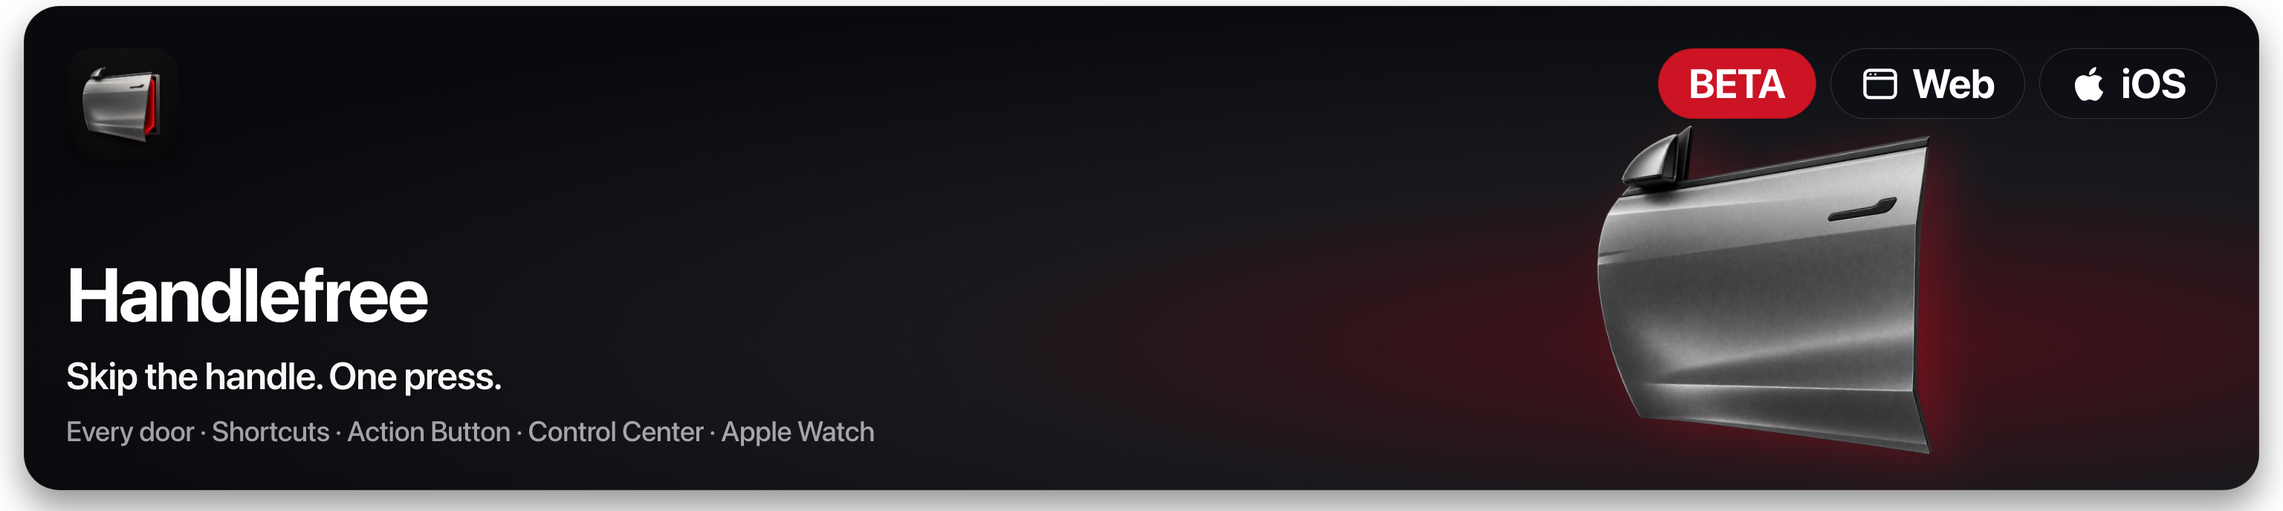
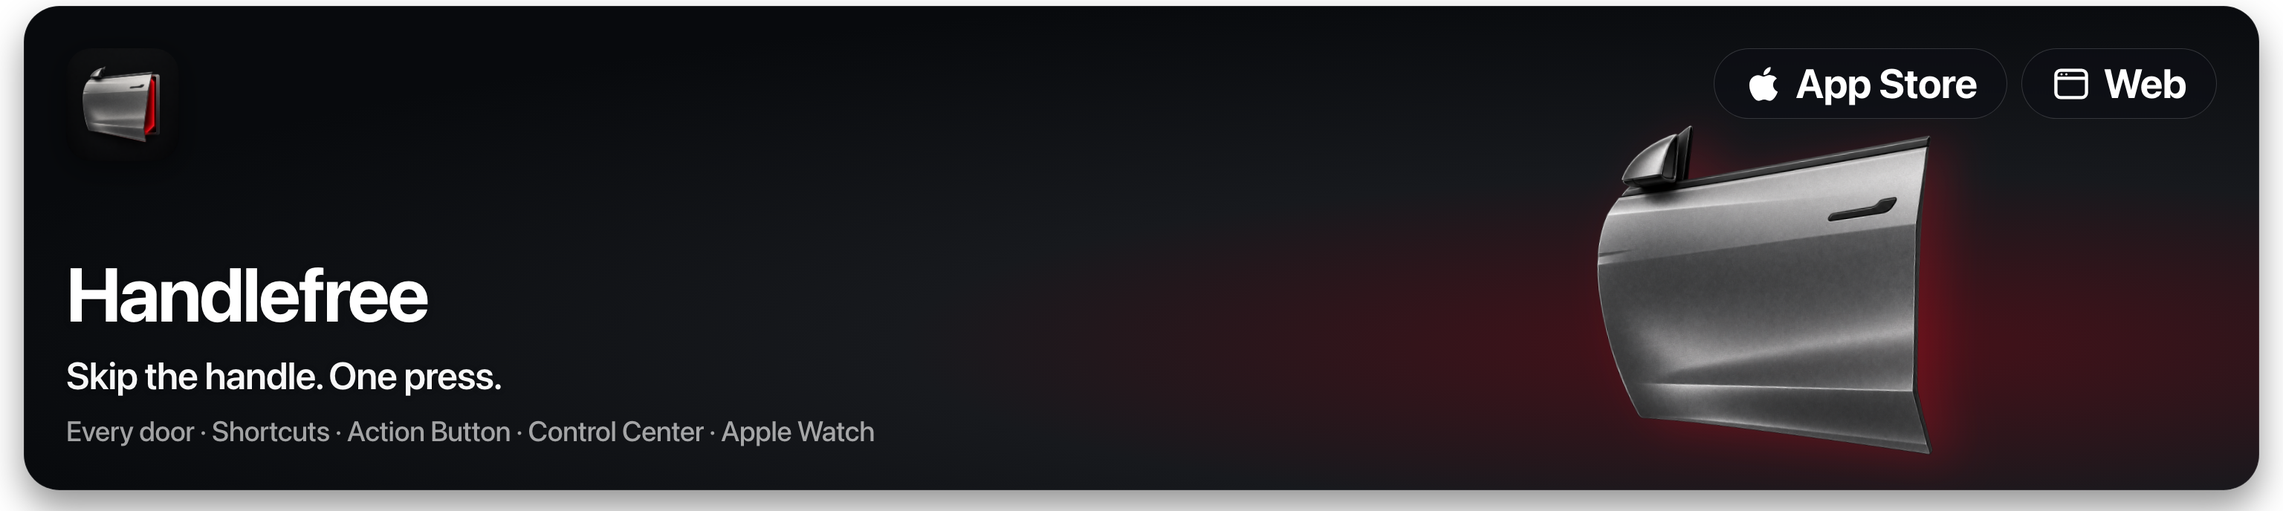
docs: Handlefree is on the App Store — badge, launch price, real-car clip, Model 3 compatibility

Changed region(s): [[0.7188, 0.0916, 0.9688, 0.2442]]

diff --git a/README.de.md b/README.de.md
@@ -1,4 +1,4 @@
-<a href="https://handlefree.app/de/"><img src="assets/handlefree-banner.png" width="100%" alt="Handlefree Beta: Skip the handle. One press. Jede Tür, Kurzbefehle, Aktionstaste, Kontrollzentrum und Apple Watch. Zu handlefree.app."></a>
+<a href="https://handlefree.app/de/"><img src="assets/handlefree-banner.png" width="100%" alt="Handlefree: Skip the handle. One press. Jede Tür, Kurzbefehle, Aktionstaste, Kontrollzentrum und Apple Watch. Zu handlefree.app."></a>
 
 # Handlefree · Kein Türgriff mehr für deinen Tesla
 
@@ -6,9 +6,11 @@
 
 Handlefree (früher Teslatch) ist eine native iPhone-App, die die Tesla-Tür deiner Wahl über lokales Bluetooth öffnet. Entriegle die Fahrertür oder eine Beifahrertür, öffne Frunk und Kofferraum und öffne oder schließe die Ladeklappe: in der App, per Apple Kurzbefehl, mit der Aktionstaste des iPhone, über eine Steuerung im Kontrollzentrum oder mit deiner Apple Watch.
 
-**[handlefree.app/de →](https://handlefree.app/de/)** · **[Zur TestFlight-Beta](https://testflight.apple.com/join/xGT4ZtxE)** · [Film ansehen](https://www.onekapisch.com/handlefree/#film) · [Preise](https://handlefree.app/de/pricing/) · [Anleitungen](https://handlefree.app/de/guides/) · [Hilfe](https://handlefree.app/de/support/)
+<a href="https://apps.apple.com/app/handlefree-skip-the-handle/id6813757204"><img src="assets/appstore-badge-de.svg" height="48" alt="Handlefree im App Store laden"></a>
 
-> **Stand Oktober 2026:** Handlefree 1.0 ist im App Store eingereicht und wird von Apple geprüft. Bis zur Veröffentlichung kannst du die [öffentliche TestFlight-Beta](https://testflight.apple.com/join/xGT4ZtxE) ausprobieren; die Plätze sind begrenzt, und die Beta-Version kann älter sein als die App-Store-Version.
+**[handlefree.app/de →](https://handlefree.app/de/)** · [Am echten Auto ansehen](https://handlefree.app/de/#real) · [Preise](https://handlefree.app/de/pricing/) · [Anleitungen](https://handlefree.app/de/guides/) · [Hilfe](https://handlefree.app/de/support/)
+
+> **Jetzt im App Store.** Handlefree 1.0 ist seit dem 7. Oktober 2026 erhältlich. Der Download ist kostenlos, die Fahrertür bleibt dauerhaft kostenlos.
 >
 > Dies ist das offizielle **Produkt- und Feedback-Repository**, nicht der Quellcode der App. Die Fahrzeugsteuerung läuft in der nativen App, nicht im Browser.
 
@@ -17,6 +19,12 @@ Handlefree (früher Teslatch) ist eine native iPhone-App, die die Tesla-Tür dei
 <table>
 <tr><td width="33%"><h3>Meine Tür</h3><p>Eine klare Steuerung für die Fahrertür, mit Siri, Kurzbefehlen, Aktionstaste und Kontrollzentrum, damit du den Zugang wählst, der zu dir passt.</p></td><td width="33%"><h3>Jemanden einsteigen lassen</h3><p>Wähle eine Beifahrertür auf einer Fahrzeugansicht oder lege deine meistgenutzten Steuerungen als Favoriten ab. Jede Tür ist eine eigene, benannte Aktion.</p></td><td width="33%"><h3>Einladen</h3><p>Frunk und Kofferraum erreichst du in derselben Oberfläche. Öffnen und Schließen des elektrischen Kofferraums sind getrennte Aktionen.</p></td></tr>
 </table>
+
+### Am echten Auto
+
+<a href="https://handlefree.app/de/#real"><img src="assets/real-car-de.jpg" width="420" alt="Eine echte Aufnahme: Die Aktionstaste des iPhone wird gedrückt und die Fahrertür des Teslas des Entwicklers entriegelt. Eine Einblendung zeigt Fahrertür, entriegelt."></a>
+
+*Ein Druck auf die Aktionstaste des iPhone, in einem Durchgang am Auto des Entwicklers gefilmt und in Originalgeschwindigkeit gezeigt. [Clip auf handlefree.app ansehen](https://handlefree.app/de/#real). Fremde Kennzeichen und persönliche Angaben sind unkenntlich gemacht.*
 
 ### Die App im Detail
 
@@ -47,7 +55,7 @@ Handlefree (früher Teslatch) ist eine native iPhone-App, die die Tesla-Tür dei
 | Kostenlos | Handlefree Pro |
 | --- | --- |
 | Fahrertür entriegeln, verriegeln und entriegeln, in der App und per Siri, Kurzbefehl, Aktionstaste und Kontrollzentrum. Urlaubsmodus und alle Sicherheitseinstellungen. | Beifahrer- und hintere Türen, Frunk, Kofferraum, Ladeklappe und Apple Watch. |
-| Dauerhaft kostenlos. | **9,99 € einmalig** (im App Store in deiner Landeswährung). Kein Abo. Über die Familienfreigabe teilbar. |
+| Dauerhaft kostenlos. | **9,99 € einmalig, Einführungspreis bis 31. Oktober 2026**, danach 19,99 € (im App Store in deiner Landeswährung). Kein Abo. Über die Familienfreigabe teilbar. |
 
 Alle Pro-Funktionen kannst du **7 Tage** kostenlos testen, ab dem Koppeln deines Autos. Danach funktionieren die kostenlosen Funktionen weiter. Kauf wiederherstellen und Code einlösen findest du in der App. Die Zahlung wickelt Apple ab; Handlefree sieht deine Karte nie. Details: [handlefree.app/de/pricing](https://handlefree.app/de/pricing/).
 
@@ -59,7 +67,7 @@ Alle Pro-Funktionen kannst du **7 Tage** kostenlos testen, ab dem Koppeln deines
 - **Schlüssel bleiben auf dem iPhone.** Geschützt im gerätegebundenen Schlüsselbund; die Watch leitet Anfragen weiter und bekommt den Fahrzeugschlüssel nicht.
 - **Diagnose nur auf Wunsch.** Kein automatischer Upload. Du prüfst selbst, was du teilst.
 
-Apple verarbeitet Käufe im App Store und erhebt bei TestFlight Nutzungs- und Absturzdaten, die es mit dem Entwickler teilen kann. Die Website handlefree.app nutzt cookielose, zusammengefasste Vercel Web Analytics; die App selbst hat keine Analyse. GitHub und E-Mail-Anbieter verarbeiten Daten, wenn du ihre Dienste nutzt. Zur [Datenschutzerklärung](https://handlefree.app/de/privacy-policy/).
+Apple verarbeitet Käufe im App Store. Wenn du an einer TestFlight-Beta teilnimmst, erhebt Apple Nutzungs- und Absturzdaten, die es mit dem Entwickler teilen kann. Die Website handlefree.app nutzt cookielose, zusammengefasste Vercel Web Analytics; die App selbst hat keine Analyse. GitHub und E-Mail-Anbieter verarbeiten Daten, wenn du ihre Dienste nutzt. Zur [Datenschutzerklärung](https://handlefree.app/de/privacy-policy/).
 
 ## Kompatibilität und aktueller Stand
 
@@ -67,17 +75,17 @@ Apple verarbeitet Käufe im App Store und erhebt bei TestFlight Nutzungs- und Ab
 | --- | --- |
 | iPhone | iOS 17 oder neuer (Kontrollzentrum und Sperrbildschirm ab iOS 18); Bluetooth an; ein kompatibler Tesla und eine vorhandene Schlüsselkarte zum Koppeln. |
 | Apple Watch | watchOS 10 oder neuer; gekoppeltes iPhone in der Nähe. Diese Version ist kein eigenständiger Watch-Schlüssel. |
-| Fahrzeuge | Physisch getestet bisher am Model Y des Entwicklers (alle vier Türen, Frunk und Kofferraum) und am Model Y Standard eines Beta-Testers. Das ist keine Freigabe für alle Fahrzeuge. |
-| Model 3, S und X | Fahrzeugbilder sind vorhanden. Sie belegen nicht, dass Befehle mit jedem Modell, Baujahr oder jeder Software funktionieren. |
+| Fahrzeuge | Teslas, die Bluetooth-Telefonschlüssel unterstützen. Bestätigt bisher: das Model Y des Entwicklers (alle vier Türen, Frunk und Kofferraum), das Model Y Standard eines Beta-Testers und Model 3, gemeldet von Besitzern. Das ist keine Freigabe für alle Fahrzeuge. |
+| Model S und X | Fahrzeuge ab 2021 unterstützen Telefonschlüssel und sollten sich koppeln lassen, sind von Testern aber noch nicht bestätigt. Model S und X vor 2021 haben keinen Telefonschlüssel und lassen sich nicht koppeln. |
 | Reichweite | Die Bluetooth-Reichweite schwankt. Es gibt keine garantierte Entfernung. |
 | Ohne Fahrzeugstrom | Handlefree braucht ein Auto mit Strom in Reichweite. Im Notfall nutzt du die mechanische Notentriegelung aus deinem Handbuch. |
-| Verfügbarkeit | Alle App-Store-Länder außer Frankreich. |
+| Verfügbarkeit | iPhone, in allen App-Store-Ländern außer Frankreich. |
 
 [Ausführliche Hinweise zur Kompatibilität (Englisch)](docs/COMPATIBILITY.md) · [Anleitungen](https://handlefree.app/de/guides/)
 
 ## Loslegen
 
-1. Installiere Handlefree aus dem App Store, sobald die App veröffentlicht ist, oder tritt über Apples TestFlight-App der [öffentlichen Beta](https://testflight.apple.com/join/xGT4ZtxE) bei.
+1. Installiere Handlefree [aus dem App Store](https://apps.apple.com/app/handlefree-skip-the-handle/id6813757204).
 2. Folge geparkt am Auto der Kopplungsanleitung in Handlefree, mit deiner vorhandenen Tesla-Schlüsselkarte am Kartenleser im Innenraum.
 3. Teste jede Tür in der App und richte dann deinen Kurzbefehl, die Aktionstaste, das Kontrollzentrum oder die Watch ein.
 
@@ -100,7 +108,7 @@ Halte beim Testen den Tür- oder Ladebereich frei. Verlass dich nicht allein auf
 
 **Ist Handlefree kostenlos?**
 
-Fahrertür, Verriegeln und Entriegeln, Urlaubsmodus und alle Sicherheitseinstellungen sind kostenlos. Handlefree Pro ist ein Einmalkauf für die übrigen Türen, Frunk, Kofferraum, Ladeklappe und Apple Watch, mit 7 Tagen kostenlosem Test nach dem Koppeln.
+Fahrertür, Verriegeln und Entriegeln, Urlaubsmodus und alle Sicherheitseinstellungen sind kostenlos. Handlefree Pro ist ein Einmalkauf (9,99 € bis 31. Oktober 2026, danach 19,99 €) für die übrigen Türen, Frunk, Kofferraum, Ladeklappe und Apple Watch, mit 7 Tagen kostenlosem Test nach dem Koppeln.
 
 **Funktioniert es ohne Internet?**
 
@@ -113,6 +121,10 @@ Ja, bei unterstützten Fahrzeugen, mit Handlefree Pro oder während des Tests. J
 **Funktioniert die Watch, wenn das iPhone gesperrt ist?**
 
 Standardmäßig muss das iPhone entsperrt sein. Eine optionale Watch-Zugriffseinstellung erlaubt die Nutzung bei gesperrtem iPhone, nach Bestätigung durch den Besitzer und Einrichtung auf dem iPhone. Das gekoppelte iPhone muss trotzdem in der Nähe sein.
+
+**Welche Teslas funktionieren?**
+
+Teslas, die Bluetooth-Telefonschlüssel unterstützen. Model Y und Model 3 sind bestätigt. Model S und X ab 2021 unterstützen Telefonschlüssel; ältere lassen sich nicht koppeln. Teste jede Tür in der App, bevor du dich auf einen Kurzbefehl verlässt.
 
 **Ersetzt Handlefree die Tesla-App?**
 
@@ -134,10 +146,10 @@ Nutze einen [Fehlerbericht](https://github.com/onekapisch/handlefree/issues/new?
 
 ## Von OneKapisch
 
-Entwickelt von **OneKapisch (Aeon GbR)**, einem unabhängigen Studio in Fürth.
+Entwickelt von **OneKapisch**, einem unabhängigen Softwarestudio aus 🇩🇪
 
 [handlefree.app/de](https://handlefree.app/de/) · [Das Studio](https://www.onekapisch.com/) · [Weitere Apps](https://www.onekapisch.com/products/)
 
 Handlefree ist eine unabhängige App und steht in keiner Verbindung zu Tesla, Inc. und wird nicht von Tesla unterstützt. Tesla und Fahrzeugnamen gehören ihren jeweiligen Inhabern. Apple, iPhone, Apple Watch, Siri und TestFlight sind Marken von Apple Inc. Die Grafiken sind stilisiert, keine offiziellen Tesla-CAD-Daten.
 
-<sub>Produktinformationen geprüft am 4. Oktober 2026. Verfügbarkeit, Preise und Funktionen können sich ändern; aktuelle Angaben findest du auf handlefree.app.</sub>
+<sub>Produktinformationen geprüft am 9. Oktober 2026. Verfügbarkeit, Preise und Funktionen können sich ändern; aktuelle Angaben findest du auf handlefree.app.</sub>

diff --git a/README.md b/README.md
@@ -1,4 +1,4 @@
-<a href="https://handlefree.app/"><img src="assets/handlefree-banner.png" width="100%" alt="Handlefree beta — Skip the handle. One press. Every door, Shortcuts, Action Button, Control Center and Apple Watch. Visit handlefree.app."></a>
+<a href="https://handlefree.app/"><img src="assets/handlefree-banner.png" width="100%" alt="Handlefree — Skip the handle. One press. Every door, Shortcuts, Action Button, Control Center and Apple Watch. Visit handlefree.app."></a>
 
 # Handlefree · Skip the handle for your Tesla
 
@@ -6,9 +6,11 @@
 
 Handlefree (formerly Teslatch) is a native iPhone app that opens the Tesla door you choose over local Bluetooth. Unlatch the driver door or a passenger door, open the frunk and trunk, and open or close the charge-port cover, from the app, an Apple Shortcut, the iPhone Action Button, a Control Center control or your Apple Watch.
 
-**[handlefree.app →](https://handlefree.app/)** · **[Join the TestFlight beta](https://testflight.apple.com/join/xGT4ZtxE)** · [Watch the film](https://www.onekapisch.com/handlefree/#film) · [Pricing](https://handlefree.app/pricing/) · [Guides](https://handlefree.app/guides/) · [Support](https://handlefree.app/support/)
+<a href="https://apps.apple.com/app/handlefree-skip-the-handle/id6813757204"><img src="assets/appstore-badge-en.svg" height="48" alt="Download Handlefree on the App Store"></a>
 
-> **Status, October 2026:** Handlefree 1.0 has been submitted to the App Store and is in Apple's review. Until it is released, you can try the [public TestFlight beta](https://testflight.apple.com/join/xGT4ZtxE); places are limited and the beta build may be older than the App Store version.
+**[handlefree.app →](https://handlefree.app/)** · [See it on a real car](https://handlefree.app/#real) · [Pricing](https://handlefree.app/pricing/) · [Guides](https://handlefree.app/guides/) · [Support](https://handlefree.app/support/)
+
+> **Now on the App Store.** Handlefree 1.0 was released on 7 October 2026. It is free to download; the driver door stays free forever.
 >
 > This is the official **product showcase and feedback repository**, not the app's source code. Vehicle control happens in the native app, not in a browser.
 
@@ -17,6 +19,12 @@ Handlefree (formerly Teslatch) is a native iPhone app that opens the Tesla door 
 <table>
 <tr><td width="33%"><h3>My door</h3><p>A focused driver-door control, with Siri, Shortcuts, Action Button and Control Center access so you can use the entry point that suits you.</p></td><td width="33%"><h3>Let someone in</h3><p>Choose a passenger door on a visual vehicle layout, or keep your most-used controls as favorites. Each door is a separate, named action.</p></td><td width="33%"><h3>Load the car</h3><p>Reach the frunk and trunk through the same interface. Opening and closing the powered trunk are separate actions.</p></td></tr>
 </table>
+
+### On a real car
+
+<a href="https://handlefree.app/#real"><img src="assets/real-car-en.jpg" width="420" alt="A real recording: the iPhone Action Button is pressed and the driver door of the developer's Tesla unlatches. A label reads Driver door, Unlatched."></a>
+
+*One press on the iPhone Action Button, filmed in one take on the developer's car and shown at original speed. [Watch the clip on handlefree.app](https://handlefree.app/#real). Other number plates and personal details are blurred.*
 
 ### The app, up close
 
@@ -47,7 +55,7 @@ Handlefree (formerly Teslatch) is a native iPhone app that opens the Tesla door 
 | Free | Handlefree Pro |
 | --- | --- |
 | Unlatch the driver door, lock and unlock, in the app and with Siri, Shortcuts, the Action Button and Control Center. Holiday Mode and every safety setting. | Passenger and rear doors, frunk, trunk, charge-port cover and Apple Watch. |
-| Free forever. | **€9.99 once** (local price on the App Store). No subscription. Shared with your family through Family Sharing. |
+| Free forever. | **€9.99 once, launch price until 31 October 2026**, then €19.99 (local price on the App Store). No subscription. Shared with your family through Family Sharing. |
 
 Every Pro feature is free to try for **7 days**, starting when you pair your car. Afterwards the free features keep working. Restore purchase and Redeem code are in the app. Payment is handled by Apple; Handlefree never sees your card. Details: [handlefree.app/pricing](https://handlefree.app/pricing/).
 
@@ -59,7 +67,7 @@ Every Pro feature is free to try for **7 days**, starting when you pair your car
 - **Keys stay on the iPhone.** Protected with device-only Keychain storage; the Watch relays requests rather than receiving the vehicle key.
 - **Diagnostics are your choice.** No automatic diagnostic upload. Review anything you choose to share.
 
-Apple processes App Store purchases and, for TestFlight, collects beta usage and crash information it can share with the developer. The website handlefree.app uses cookieless, aggregated Vercel Web Analytics; the app itself has no analytics. GitHub and email providers process data when you use those services. Read the [full privacy policy](https://handlefree.app/privacy-policy/).
+Apple processes App Store purchases. If you join a TestFlight beta, Apple collects beta usage and crash information it can share with the developer. The website handlefree.app uses cookieless, aggregated Vercel Web Analytics; the app itself has no analytics. GitHub and email providers process data when you use those services. Read the [full privacy policy](https://handlefree.app/privacy-policy/).
 
 ## Compatibility and current evidence
 
@@ -67,17 +75,17 @@ Apple processes App Store purchases and, for TestFlight, collects beta usage and
 | --- | --- |
 | iPhone | iOS 17 or later (Control Center and Lock Screen controls need iOS 18); Bluetooth enabled; a compatible Tesla and an existing vehicle key card for pairing. |
 | Apple Watch | watchOS 10 or later; paired iPhone nearby. This version is not a standalone Watch key. |
-| Vehicles | Physical testing so far covers the developer's Model Y (all four doors, frunk and trunk) and a beta tester's Model Y Standard. This is not fleet-wide certification. |
-| Model 3, S and X | Presentation artwork is available. It is not evidence that commands work on every model, year or firmware. |
+| Vehicles | Teslas that support Bluetooth phone keys. Confirmed so far: the developer's Model Y (all four doors, frunk and trunk), a beta tester's Model Y Standard, and Model 3 cars reported by owners. This is not fleet-wide certification. |
+| Model S and X | Cars built from 2021 support phone keys and should pair, but have not been confirmed by testers yet. Model S and X built before 2021 have no phone key and cannot pair. |
 | Range | Bluetooth reachability varies. There is no guaranteed distance boundary. |
 | No vehicle power | Handlefree needs a powered, reachable car. In an emergency use the manual door release described in your owner's manual. |
-| Availability | Every App Store region except France. |
+| Availability | iPhone, in every App Store region except France. |
 
 [Detailed compatibility notes](docs/COMPATIBILITY.md) · [Setup guides](https://handlefree.app/guides/)
 
 ## Getting started
 
-1. Install Handlefree from the App Store once it is released, or join the [public TestFlight beta](https://testflight.apple.com/join/xGT4ZtxE) through Apple's TestFlight app.
+1. Install Handlefree [from the App Store](https://apps.apple.com/app/handlefree-skip-the-handle/id6813757204).
 2. While parked near the vehicle, follow Handlefree's pairing instructions with your existing Tesla key card at the interior card reader for your model.
 3. Test each door in the app, then set up your preferred Shortcut, Action Button, Control Center or Watch control.
 
@@ -100,7 +108,7 @@ Keep the door or cargo area clear when testing. Do not rely on an animation alon
 
 **Is Handlefree free?**
 
-The driver door, locking and unlocking, Holiday Mode and all safety settings are free. Handlefree Pro is a one-time purchase that adds the other doors, frunk, trunk, charge-port cover and Apple Watch, with a 7-day free trial after you pair your car.
+The driver door, locking and unlocking, Holiday Mode and all safety settings are free. Handlefree Pro is a one-time purchase (€9.99 until 31 October 2026, then €19.99) that adds the other doors, frunk, trunk, charge-port cover and Apple Watch, with a 7-day free trial after you pair your car.
 
 **Can it work without internet?**
 
@@ -113,6 +121,10 @@ Yes, on supported vehicles, with Handlefree Pro or during the trial. Each door i
 **Does the Watch work with the iPhone locked?**
 
 By default the iPhone must be unlocked. An optional Watch-access setting allows locked-phone use after owner authentication and setup on the iPhone. The paired phone is still required nearby.
+
+**Which Teslas work?**
+
+Teslas that support Bluetooth phone keys. Model Y and Model 3 are confirmed. Model S and X from 2021 support phone keys; models built before 2021 cannot pair. Test each door in the app before relying on a Shortcut.
 
 **Does Handlefree replace the Tesla app?**
 
@@ -134,10 +146,10 @@ Use a [bug report](https://github.com/onekapisch/handlefree/issues/new?template=
 
 ## Made by OneKapisch
 
-Built by **OneKapisch**, an independent Software Studio in 🇩🇪
+Built by **OneKapisch**, an independent software studio from 🇩🇪
 
 [handlefree.app](https://handlefree.app/) · [Explore the studio](https://www.onekapisch.com/) · [More apps](https://www.onekapisch.com/products/)
 
 Handlefree is an independent app and is not affiliated with or endorsed by Tesla, Inc. Tesla and vehicle model names belong to their respective owners. Apple, iPhone, Apple Watch, Siri and TestFlight are trademarks of Apple Inc. Artwork is stylized, not official Tesla CAD.
 
-<sub>Product information reviewed 4 October 2026. Availability, prices and capabilities may change; handlefree.app has the current details.</sub>
+<sub>Product information reviewed 9 October 2026. Availability, prices and capabilities may change; handlefree.app has the current details.</sub>

diff --git a/docs/COMPATIBILITY.md b/docs/COMPATIBILITY.md
@@ -1,11 +1,16 @@
 # Handlefree compatibility
 
-Last reviewed: 4 October 2026.
+Last reviewed: 9 October 2026.
 
 ## Physically tested so far
 
 - **The developer's Model Y:** all four cabin doors, frunk and trunk work in the app, and Shortcuts were confirmed in TestFlight.
 - **A beta tester's Model Y Standard.**
+- **Model 3:** confirmed by owners after the App Store launch (owner report, 8 October 2026).
+
+## Cannot pair
+
+- **Model S and Model X built before 2021.** They do not support Bluetooth phone keys, so Handlefree has nothing to pair with. Model S and X from 2021 support phone keys but have not been confirmed by testers yet.
 
 These are individual reports, not an independent certification or a guarantee across Tesla models, years or software versions.
 
@@ -15,18 +20,18 @@ These are individual reports, not an independent certification or a guarantee ac
 - Fresh open/closed position feedback across vehicles and sleep states.
 - Watch relaying, locked-phone mode and specific device configurations.
 - Action Button routing on supported iPhones and Apple Watch Ultra.
-- Additional Tesla models, model years and steering configurations.
+- Model S and X from 2021, more model years and steering configurations.
 
 The app includes Model 3/S/X/Y appearance choices. Artwork selection does not enable, verify or certify an actuator. Follow the in-app confirmation process for individual controls.
 
 ## Requirements and limits
 
 - iOS 17+ (Control Center and Lock Screen controls need iOS 18); watchOS 10+ for the companion.
-- An existing Tesla key card for initial vehicle approval.
+- A Tesla that supports Bluetooth phone keys, and an existing Tesla key card for initial vehicle approval.
 - A nearby iPhone for both phone and Watch commands; no standalone Watch key in this version.
 - Bluetooth reachability is not a precise distance measurement. No fixed distance promise.
 - Reader locations vary by vehicle; follow model-appropriate pairing instructions.
-- Passenger and rear doors, frunk, trunk, charge-port cover and Apple Watch are part of Handlefree Pro after the 7-day trial; the driver door, lock and unlock are free.
-- Handlefree is not available in France.
+- Passenger and rear doors, frunk, trunk, charge-port cover and Apple Watch are part of Handlefree Pro after the 7-day trial (€9.99 once until 31 October 2026, then €19.99); the driver door, lock and unlock are free.
+- iPhone only. Handlefree is not available in France.
 
 For troubleshooting, use the [support guide](https://handlefree.app/support/). When reporting compatibility, supply model/year, software version, app version and the particular action. Do not publish a VIN, key or location.

diff --git a/docs/ASSETS.md b/docs/ASSETS.md
@@ -3,6 +3,8 @@
 - assets/icon.png: developer-approved Handlefree app icon.
 - assets/01-entry.png, 02-controls.png, 03-no-app.png, 04-privacy.png: the English App Store screenshots of Handlefree 1.0 (Studio v3 set), unchanged.
 - assets/de/01-entry.png to 04-privacy.png: the German App Store screenshots of the same set, unchanged.
-- assets/handlefree-banner.png: generated for the public showcase and GitHub profile using the profile renderer at onekapisch/onekapisch, scripts/build-bento.mjs (tile-handlefree). It composes the approved icon and transparent door panel without modifying their source pixels. It still carries the BETA badge; replace it when the App Store version is released.
+- assets/handlefree-banner.png: generated for the public showcase and GitHub profile using the profile renderer at onekapisch/onekapisch, scripts/build-bento.mjs (tile-handlefree). It composes the approved icon and transparent door panel without modifying their source pixels. Since the App Store release (7 October 2026) it carries no BETA badge.
+- assets/appstore-badge-en.svg and appstore-badge-de.svg: Apple's official "Download on the App Store" badges (black, English and German), unchanged, as used on handlefree.app. Use them only to link to the Handlefree App Store listing, under Apple's marketing guidelines.
+- assets/real-car-en.jpg and real-car-de.jpg: still frames of the real-car clip on handlefree.app (the developer's own recording: one press on the iPhone Action Button unlatches the driver door). Third-party number plates and personal details are blurred; keep them blurred in any crop.
 
 The screenshots are 1320 × 2868 pixels and were captured in the iOS Simulator, so the "Simulator preview · No vehicle connected" line is visible. The tile is 3072 × 688 pixels. GitHub displays both at the available README width. Do not remove simulator labels from screenshots or imply official Tesla artwork.

diff --git a/AGENTS.md b/AGENTS.md
@@ -2,6 +2,6 @@
 
 This repository contains public product information and approved media only. Never copy native app source, signing material, vehicle identifiers, credentials or internal release notes here.
 
-Link the hero to https://handlefree.app/. Take availability, the public TestFlight link, Pro price and trial length from handlefree.app (site-config.json in the website repo); add the App Store link only once the app is released. Do not make a universal compatibility claim. Keep README.md and README.de.md in sync. Web is a website badge, not a browser vehicle controller.
+Link the hero to https://handlefree.app/. Take availability, the App Store link, Pro price (including any launch offer) and trial length from handlefree.app (site-config.json in the website repo). The app is on the App Store since 7 October 2026; link the listing with Apple's official badge. Do not make a universal compatibility claim. Keep README.md and README.de.md in sync. Web is a website badge, not a browser vehicle controller.
 
 Use approved artwork. Profile tile renderer lives in onekapisch/onekapisch at scripts/build-bento.mjs; it renders tile-handlefree. The public app implementation stays private. Update CHANGELOG.md and TODO.md for meaningful changes. Check Markdown links, image references, issue templates and git diff --check before publishing.

diff --git a/CHANGELOG.md b/CHANGELOG.md
@@ -1,5 +1,14 @@
 # Showcase changelog
 
+## 2026-10-09 — App Store launch
+
+- Handlefree 1.0 is on the App Store (released 7 October 2026). Both READMEs lead with Apple's official App Store badge and a "Now on the App Store" note; TestFlight is no longer the way in.
+- New "On a real car" section with a still from the real-car clip on handlefree.app (English and German), replacing the link to the simulated film.
+- Pricing shows the launch price: Pro €9.99 once until 31 October 2026, then €19.99.
+- Compatibility: Model 3 confirmed by owners; Model S and X built before 2021 cannot pair (no phone key). New FAQ "Which Teslas work?". Availability names iPhone.
+- The banner no longer carries the BETA badge. Issue templates link to the App Store listing.
+- The German studio credit matches the English one.
+
 ## 2026-10-04 — Pricing, public beta and 1.0 screenshots
 
 - README now states Free vs Pro (driver door, lock and unlock free; Handlefree Pro €9.99 once, 7-day trial after pairing, Family Sharing, no subscription), links the public TestFlight beta, and notes that 1.0 is in App Store review.

diff --git a/TODO.md b/TODO.md
@@ -1,5 +1,6 @@
 # Next updates
 
-- At App Store release: add the App Store link and badge to both READMEs, change the status note, replace the BETA badge in assets/handlefree-banner.png (onekapisch/onekapisch, scripts/build-bento.mjs) and point the issue-template link at the App Store listing.
+- 1 November 2026: the launch price ends. Change Pro to €19.99 / 19,99 € in both READMEs and docs/COMPATIBILITY.md and remove the launch-price wording (handlefree.app switches automatically).
+- When 1.0.1 is released: mention the "Which Tesla?" first start (Model 3, Y, S and X, with the card-reader location for each).
 - Replace the simulator screenshots with real iPhone captures when the App Store set is updated.
-- Expand compatibility evidence as testers verify specific model/year/software combinations.
+- Expand compatibility evidence as owners confirm specific model/year/software combinations, especially Model S and X from 2021.
